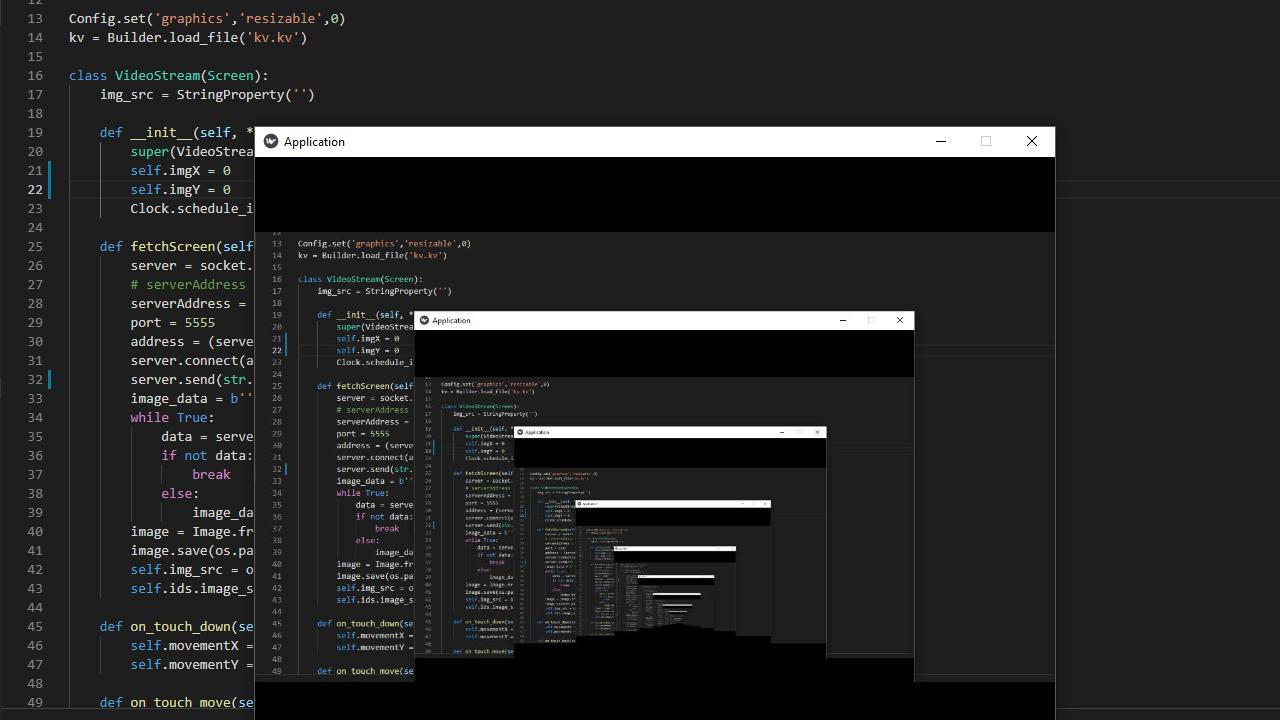
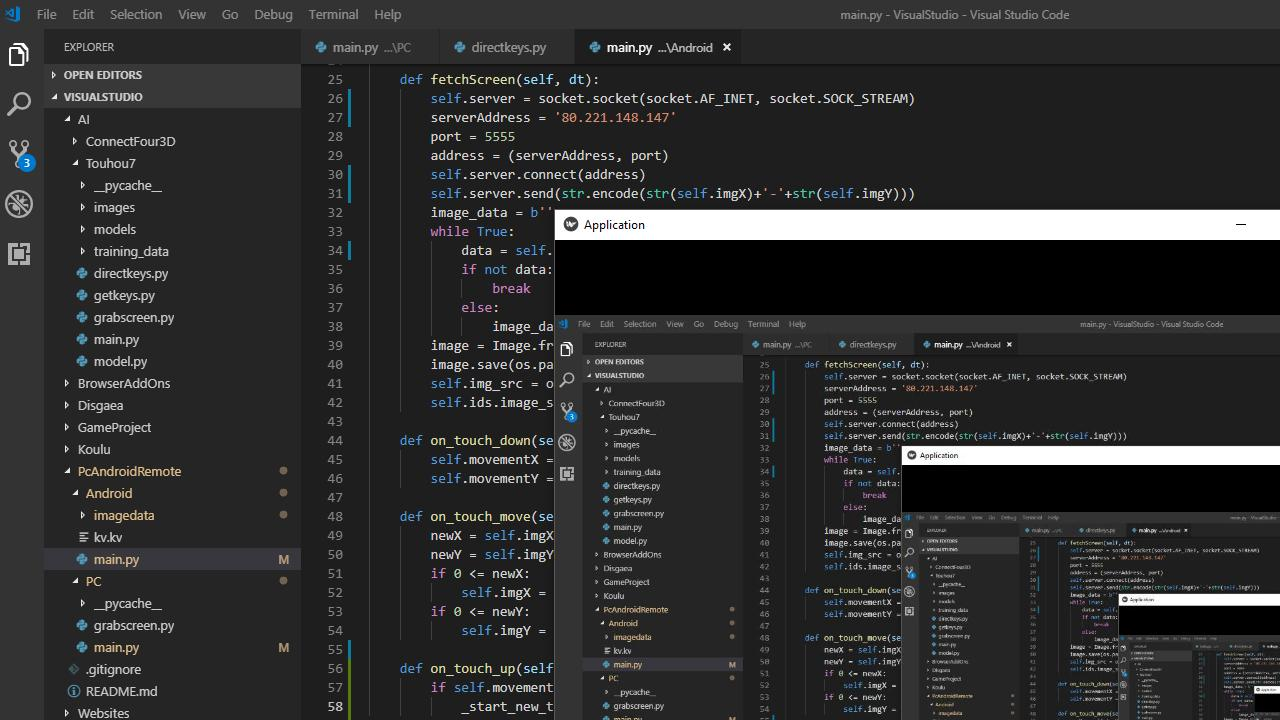
setting up more touch settings

diff --git a/PC/main.py b/PC/main.py
@@ -1,12 +1,12 @@
 import cv2
 import socket
+import win32api, win32con
 from collections import deque
 from grabscreen import grab_screen
 from threading import *
 
 def main():
-	# serverAddress = '80.221.148.147'
-	serverAddress = '192.168.43.133'
+	serverAddress = '80.221.148.147'
 	port = 5555
 	server = socket.socket(socket.AF_INET, socket.SOCK_STREAM)
 	server.bind((serverAddress, port))
@@ -14,13 +14,22 @@ def main():
 	print('Server running...')
 	while True:
 		connection, address = server.accept()
-		coordinates = connection.recv(2048).decode('utf-8').split('-')
-		x = round(float(coordinates[0]))
-		y = round(float(coordinates[1]))
-		img = grab_screen(region=(x, y, x+1279, y+719))
-		for i in range(720):
-			deque(img[i,0:1279], i)
-		connection.sendall(img)
+		request = connection.recv(2048).decode('utf-8')
+		if len(request.split('-')) == 2:
+			coordinates = request.split('-')
+			x = round(float(coordinates[0]))
+			y = round(float(coordinates[1]))
+			img = grab_screen(region=(x, y, x+1279, y+719))
+			for i in range(720):
+				deque(img[i,0:1279], i)
+			connection.sendall(img)
+		else:
+			clickPoint = request.split('_')
+			x = round(float(clickPoint[0]))
+			y = round(float(clickPoint[1]))
+			win32api.SetCursorPos((x,y))
+			win32api.mouse_event(win32con.MOUSEEVENTF_LEFTDOWN,x,y,0,0)
+			win32api.mouse_event(win32con.MOUSEEVENTF_LEFTUP,x,y,0,0)
 		connection.close()
 
 if __name__ == "__main__":

diff --git a/Android/main.py b/Android/main.py
@@ -8,7 +8,7 @@ from kivy.lang import Builder
 from kivy.properties import StringProperty
 from kivy.uix.screenmanager import Screen
 from PIL import Image
-from threading import *
+from threading import _start_new_thread
 
 Config.set('graphics','resizable',0)
 kv = Builder.load_file('kv.kv')
@@ -23,16 +23,15 @@ class VideoStream(Screen):
 		Clock.schedule_interval(self.fetchScreen, 0.1)
 
 	def fetchScreen(self, dt):
-		server = socket.socket(socket.AF_INET, socket.SOCK_STREAM)
-		# serverAddress = '80.221.148.147'
-		serverAddress = '192.168.43.133'
+		self.server = socket.socket(socket.AF_INET, socket.SOCK_STREAM)
+		serverAddress = '80.221.148.147'
 		port = 5555
 		address = (serverAddress, port)
-		server.connect(address)
-		server.send(str.encode(str(self.imgX)+'-'+str(self.imgY)))
+		self.server.connect(address)
+		self.server.send(str.encode(str(self.imgX)+'-'+str(self.imgY)))
 		image_data = b''
 		while True:
-			data = server.recv(20480)
+			data = self.server.recv(20480)
 			if not data:
 				break
 			else:
@@ -53,6 +52,10 @@ class VideoStream(Screen):
 			self.imgX = newX
 		if 0 <= newY:
 			self.imgY = newY
+		
+	def on_touch_up(self, touch):
+		if self.movementX == touch.pos[0] and self.movementY == touch.pos[1]:
+			_start_new_thread(self.server.send, (str.encode(str(self.imgX + touch.pos[0])+'_'+str(self.imgY + touch.pos[1])),))
 
 class Application(App):
 	def build(self):
